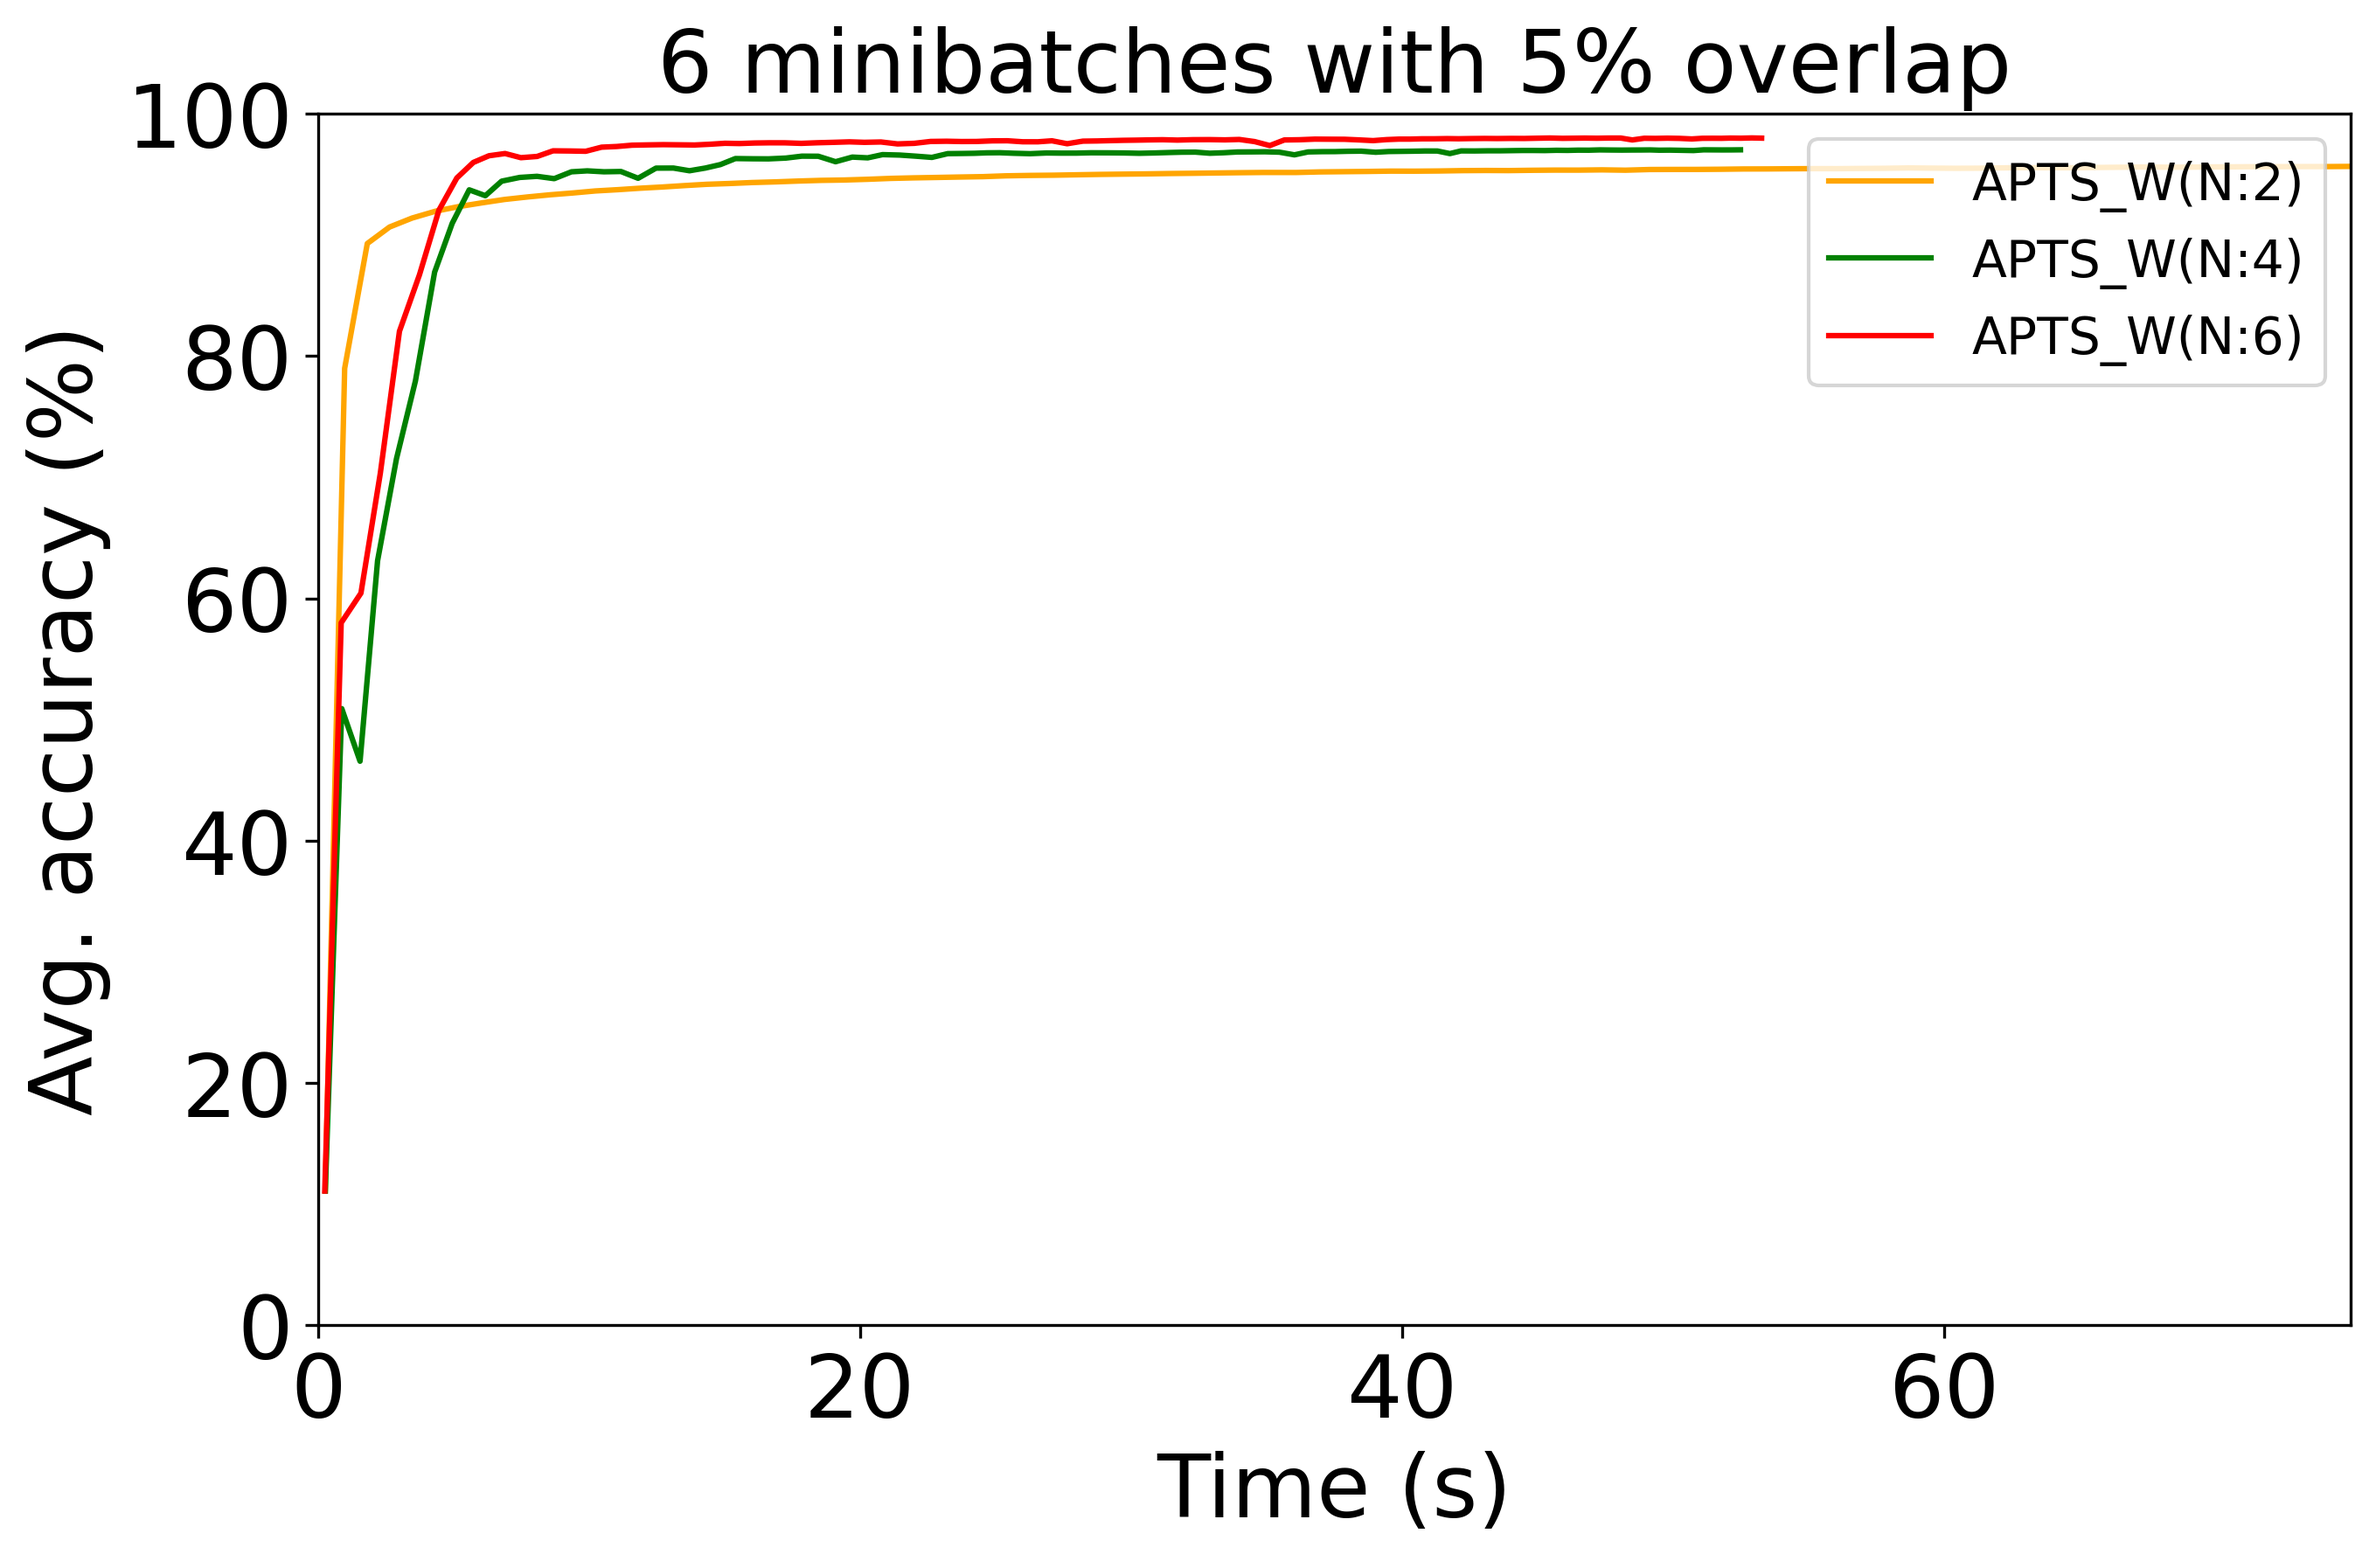
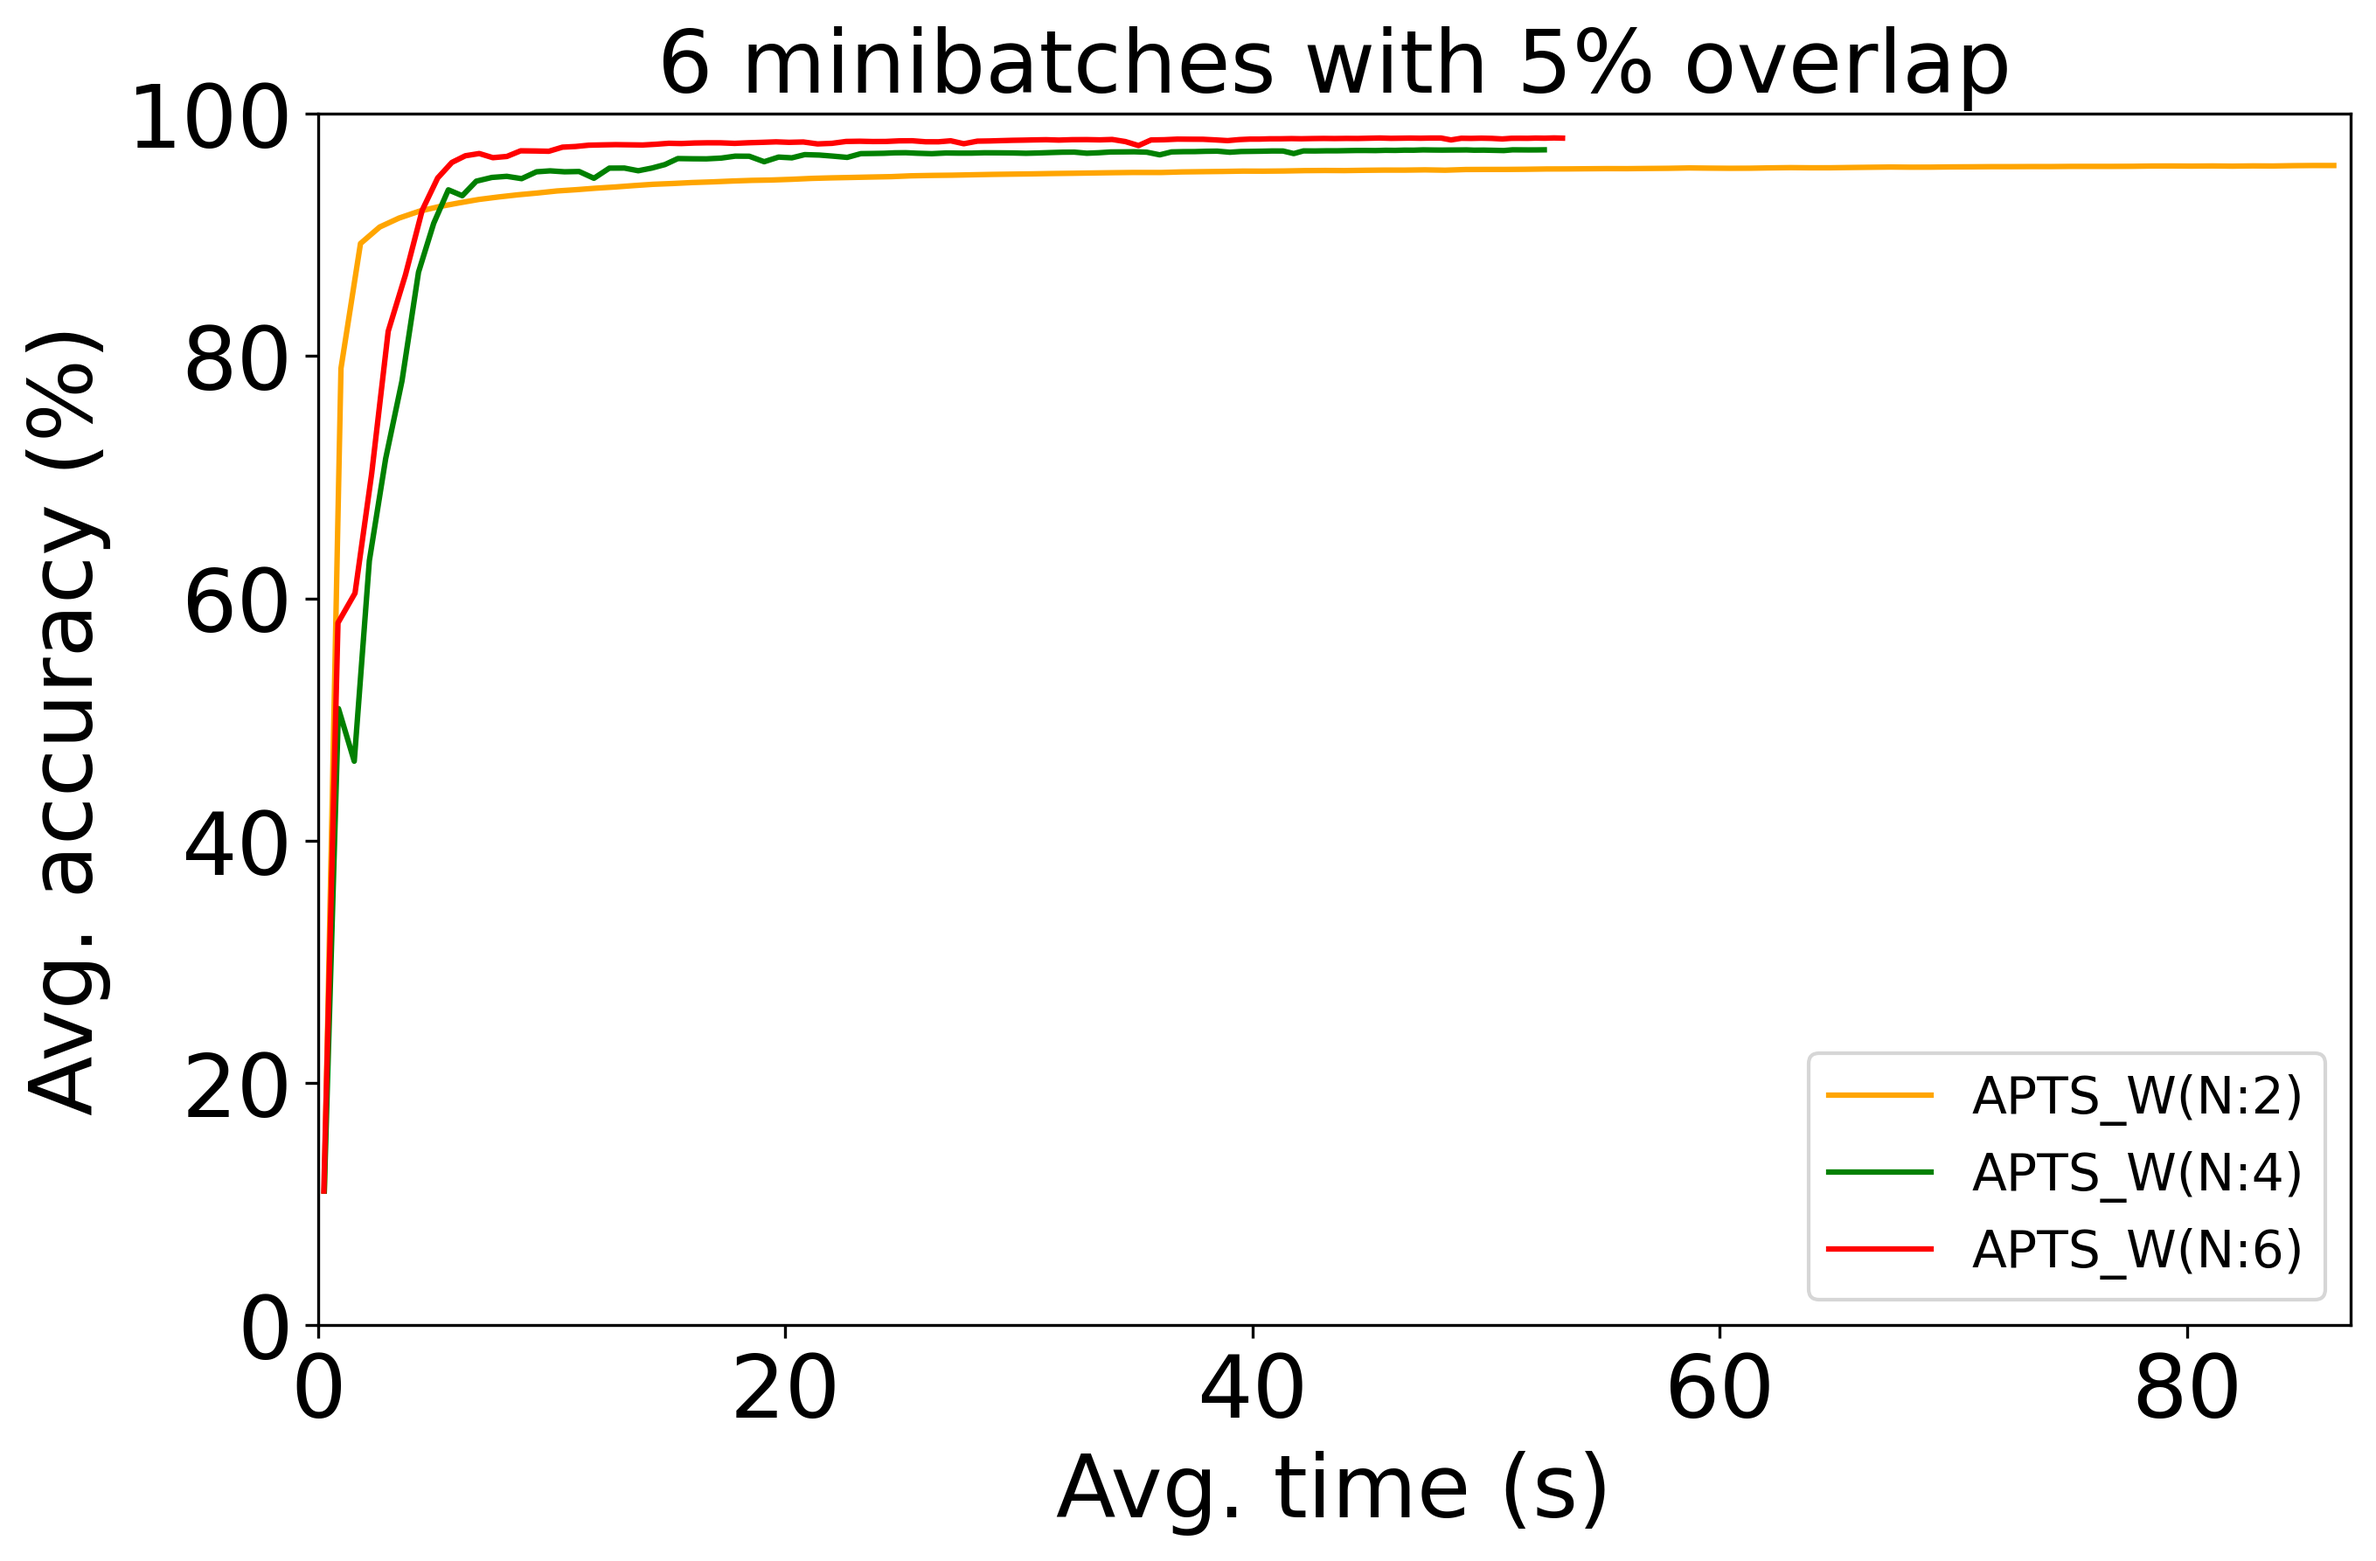
some scripts

diff --git a/src/plotting_scripts/plot_apts_w_CIFAR10_10k.py b/src/plotting_scripts/plot_apts_w_CIFAR10_10k.py
@@ -38,13 +38,22 @@ for file in files:
     avg_losses_per_epoch[N] = epoch_average_losses
     avg_accuracies_per_epoch[N] = epoch_average_accuracies
 
-file = "./results_csv/adam_cifar10_001_10000_accuracy_metrics.csv"
-df = pd.read_csv(file)
-avg_accuracies_adam_per_epoch = df['mean']
+file = "./results_csv/results_Adam_CIFAR10_10000_resnet18_cleaned.csv"
+df_adam = pd.read_csv(file, converters={'losses': convert_string_to_list, 'accuracies': convert_string_to_list})
 
-file = "./results_csv/adam_cifar10_001_10000_loss_metrics.csv"
-df = pd.read_csv(file)
-avg_losses_adam_per_epoch = df['mean']
+epoch_average_losses_adam = []
+epoch_average_accuracies_adam = []
+
+losses_transposed_adam = list(zip(*df_adam['losses']))
+for epoch_losses_adam in losses_transposed_adam:
+    epoch_average_losses_adam.append(np.mean(epoch_losses_adam))
+
+accuracies_transposed_adam = list(zip(*df_adam['accuracies']))
+for epoch_accuracies_adam in accuracies_transposed_adam:
+    epoch_average_accuracies_adam.append(np.mean(epoch_accuracies_adam))
+
+avg_accuracies_adam_per_epoch = epoch_average_accuracies_adam
+avg_losses_adam_per_epoch = epoch_average_losses_adam
 
 plt.figure(figsize=(10, 6))
 

diff --git a/src/plotting_scripts/plot_timings_apts_w_CIFAR10_10k.py b/src/plotting_scripts/plot_timings_apts_w_CIFAR10_10k.py
@@ -45,6 +45,10 @@ for file in files:
     avg_accuracies_per_epoch[N] = epoch_average_accuracies
     avg_cum_times_per_epoch[N] = epoch_average_cum_times
 
+# Print final time for each N
+for N, times in avg_cum_times_per_epoch.items():
+    print(f'N: {N}, Final time: {times[-1]}')
+
 plt.figure(figsize=(10, 6))
 
 ax1 = plt.gca()  # Now primary axis for accuracies
@@ -64,11 +68,11 @@ for N, accuracies in avg_accuracies_per_epoch.items():
     legend_handles.append(line1)
     legend_labels.append(f'APTS_W(N:{N})')
 
-ax1.set_xlabel('Time (s)', fontsize=24)
+ax1.set_xlabel('Avg. time (s)', fontsize=24)
 
 ax1.set_ylabel('Avg. accuracy (%)', color='k', fontsize=24)
 
-ax1.set_xlim([0, 1500])
+ax1.set_xlim([0, 3000])
 
 ax1.set_ylim([0, 100])
 
@@ -83,7 +87,7 @@ ax1.tick_params(axis='both', which='major', labelsize=24)
 ax1.legend(legend_handles, legend_labels, loc='upper right', fontsize=14)
 
 plt.title('5 minibatches with 1% overlap', fontsize=24)
-plt.xlim([0, 1500])
+plt.xlim([0, 3000])
 plt.savefig(f'./plots/times_APTS_W_CIFAR10_10000.png', bbox_inches='tight', dpi=300)
 plt.show()
 

diff --git a/src/plotting_scripts/plot_timings_apts_w_MNIST_10k.py b/src/plotting_scripts/plot_timings_apts_w_MNIST_10k.py
@@ -69,11 +69,11 @@ for N, accuracies in avg_accuracies_per_epoch.items():
     legend_handles.append(line1)
     legend_labels.append(f'APTS_W(N:{N})')
 
-ax1.set_xlabel('Time (s)', fontsize=24)
+ax1.set_xlabel('Avg. time (s)', fontsize=24)
 
 ax1.set_ylabel('Avg. accuracy (%)', color='k', fontsize=24)
 
-ax1.set_xlim([0, 75])
+ax1.set_xlim([0, 87])
 
 ax1.set_ylim([0, 100])
 
@@ -85,9 +85,9 @@ ax1.set_yscale('linear')
 ax1.tick_params(axis='both', which='major', labelsize=24)
 
 # Use the custom handles and labels for the legend
-ax1.legend(legend_handles, legend_labels, loc='upper right', fontsize=14)
+ax1.legend(legend_handles, legend_labels, loc='lower right', fontsize=14)
 
 plt.title('6 minibatches with 5% overlap', fontsize=24)
-plt.xlim([0, 75])
+plt.xlim([0, 87])
 plt.savefig(f'./plots/times_APTS_W_MNIST_10000.png', bbox_inches='tight', dpi=300)
 plt.show()

diff --git a/src/plotting_scripts/plot_timings_apts_w_MNIST_60k.py b/src/plotting_scripts/plot_timings_apts_w_MNIST_60k.py
@@ -69,7 +69,7 @@ for N, accuracies in avg_accuracies_per_epoch.items():
     legend_handles.append(line1)
     legend_labels.append(f'APTS_W(N:{N})')
 
-ax1.set_xlabel('Time (s)', fontsize=24)
+ax1.set_xlabel('Avg. time (s)', fontsize=24)
 
 ax1.set_ylabel('Avg. accuracy (%)', color='k', fontsize=24)
 
@@ -85,9 +85,9 @@ ax1.set_yscale('linear')
 ax1.tick_params(axis='both', which='major', labelsize=24)
 
 # Use the custom handles and labels for the legend
-ax1.legend(legend_handles, legend_labels, loc='upper right', fontsize=14)
+ax1.legend(legend_handles, legend_labels, loc='lower right', fontsize=14)
 
-plt.title('6 minibatches with 5% overlap', fontsize=24)
+plt.title('Full data set', fontsize=24)
 plt.xlim([0, 60])
 plt.savefig(f'./plots/times_APTS_W_MNIST_60000.png', bbox_inches='tight', dpi=300)
 plt.show()

diff --git a/src/plotting_scripts/clean_CSV.py b/src/plotting_scripts/clean_CSV.py
@@ -3,10 +3,14 @@ import csv
 import re
 
 # List of original CSV files to be cleaned
+# original_files = [
+#     './results_csv/results_APTS_W_CIFAR10_10000_2.csv',
+#     './results_csv/results_APTS_W_CIFAR10_10000_4.csv',
+#     './results_csv/results_APTS_W_CIFAR10_10000_6.csv'
+# ]
+
 original_files = [
-    './results_csv/results_APTS_W_CIFAR10_10000_2.csv',
-    './results_csv/results_APTS_W_CIFAR10_10000_4.csv',
-    './results_csv/results_APTS_W_CIFAR10_10000_6.csv'
+    './results_csv/results_Adam_CIFAR10_10000_resnet18.csv'
 ]
 
 # Function to clean cumulative times data
